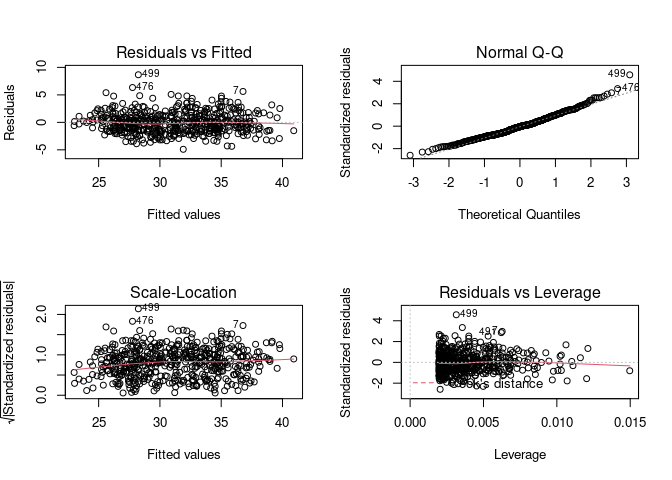
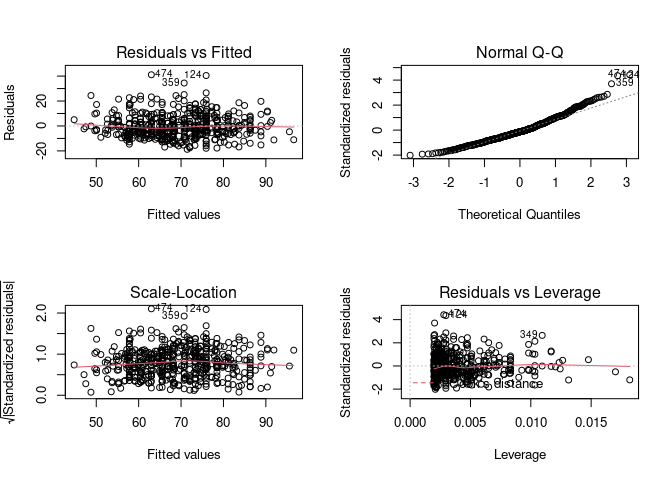
prepped assumptions

diff --git a/06 StatisticalTechniques/Assumptions.md b/06 StatisticalTechniques/Assumptions.md
@@ -1,23 +1,21 @@
 Assumptions
 ================
-Last Updated: 16, September, 2023 at 18:17
+Last Updated: 16, November, 2023 at 09:22
 
-- <a href="#read-some-data" id="toc-read-some-data">Read some data</a>
-- <a href="#assumption-1-linearity-of-model"
-  id="toc-assumption-1-linearity-of-model">Assumption 1: Linearity of
-  model</a>
-  - <a href="#example-1" id="toc-example-1">Example 1</a>
-  - <a href="#example-2" id="toc-example-2">Example 2</a>
-  - <a href="#example-3" id="toc-example-3">Example 3</a>
-  - <a href="#example-4" id="toc-example-4">Example 4</a>
-- <a href="#assumption-2-normal-distribution-of-the-errors"
-  id="toc-assumption-2-normal-distribution-of-the-errors">Assumption 2:
-  normal distribution of the errors</a>
-- <a href="#assumption-3-homoscedasticity"
-  id="toc-assumption-3-homoscedasticity">Assumption 3:
-  Homoscedasticity</a>
-- <a href="#more-examples" id="toc-more-examples">More examples</a>
-  - <a href="#gambling" id="toc-gambling">Gambling</a>
+- [Read some data](#read-some-data)
+- [Assumption 1: Linearity of model](#assumption-1-linearity-of-model)
+  - [Example 1](#example-1)
+  - [Example 2](#example-2)
+  - [Example 3](#example-3)
+  - [Example 4](#example-4)
+- [Assumption 2: Normal distribution of the
+  errors](#assumption-2-normal-distribution-of-the-errors)
+- [Assumption 3: Homoscedasticity](#assumption-3-homoscedasticity)
+- [More examples](#more-examples)
+  - [Heteroscedasticity: Gambling
+    data](#heteroscedasticity-gambling-data)
+  - [Non-linear relationship: Pima
+    data](#non-linear-relationship-pima-data)
 
 # Read some data
 
@@ -25,16 +23,14 @@ Last Updated: 16, September, 2023 at 18:17
 library(tidyverse)
 ```
 
-    ## ── Attaching core tidyverse packages ──────────────────────── tidyverse 2.0.0 ──
-    ## ✔ dplyr     1.1.0     ✔ readr     2.1.4
-    ## ✔ forcats   1.0.0     ✔ stringr   1.5.0
-    ## ✔ ggplot2   3.4.1     ✔ tibble    3.2.0
-    ## ✔ lubridate 1.9.2     ✔ tidyr     1.3.0
-    ## ✔ purrr     1.0.1     
+    ## ── Attaching packages ─────────────────────────────────────── tidyverse 1.3.2 ──
+    ## ✔ ggplot2 3.4.0      ✔ purrr   0.3.5 
+    ## ✔ tibble  3.1.8      ✔ dplyr   1.0.10
+    ## ✔ tidyr   1.2.1      ✔ stringr 1.4.1 
+    ## ✔ readr   2.1.3      ✔ forcats 0.5.2 
     ## ── Conflicts ────────────────────────────────────────── tidyverse_conflicts() ──
     ## ✖ dplyr::filter() masks stats::filter()
     ## ✖ dplyr::lag()    masks stats::lag()
-    ## ℹ Use the ]8;;http://conflicted.r-lib.org/conflicted package]8;; to force all conflicts to become errors
 
 ``` r
 body_data <-read_csv('data/body.csv')
@@ -75,20 +71,28 @@ model <- lm(Y ~ X1, data = vik_data)
 plot(fitted(model), resid(model))
 ```
 
-![](Assumptions_files/figure-gfm/unnamed-chunk-3-1.png)<!-- -->
+![](Assumptions_files/figure-gfm/unnamed-chunk-3-1.png)<!-- --> Let’s
+create the diagnostic plots. For our purposes, we will only look at the
+top two plots.
 
 ``` r
-par(mfrow = c(2, 2))  # Split the plotting panel into a 2 x 2 grid
+# Split the plotting panel into a 2 x 2 grid. Such that we get the four plots
+# in 4 separate panels.
+par(mfrow = c(2, 2))
 plot(model)
 ```
 
 ![](Assumptions_files/figure-gfm/unnamed-chunk-4-1.png)<!-- -->
 
+``` r
+# We can reset the plotting panel using this code: par(mfrow = c(1, 1))
+```
+
 ## Example 2
 
 ``` r
 x_data <- runif(100)
-y_data <- x_data^3
+y_data <- x_data^3 + rnorm(100, sd=0.05)
 fake <- tibble(x_data=x_data, y_data = y_data)
 model <- lm(y_data ~ x_data, data = fake)
 par(mfrow = c(1, 1)) 
@@ -100,17 +104,59 @@ abline(model, col='red')
 
 ``` r
 model <- lm(y_data ~ x_data, data = fake)
+summary(model)
+```
+
+    ## 
+    ## Call:
+    ## lm(formula = y_data ~ x_data, data = fake)
+    ## 
+    ## Residuals:
+    ##      Min       1Q   Median       3Q      Max 
+    ## -0.27150 -0.08737 -0.01992  0.08296  0.28573 
+    ## 
+    ## Coefficients:
+    ##             Estimate Std. Error t value Pr(>|t|)    
+    ## (Intercept) -0.17305    0.02210   -7.83 5.85e-12 ***
+    ## x_data       0.87200    0.04057   21.49  < 2e-16 ***
+    ## ---
+    ## Signif. codes:  0 '***' 0.001 '**' 0.01 '*' 0.05 '.' 0.1 ' ' 1
+    ## 
+    ## Residual standard error: 0.1205 on 98 degrees of freedom
+    ## Multiple R-squared:  0.825,  Adjusted R-squared:  0.8232 
+    ## F-statistic: 461.9 on 1 and 98 DF,  p-value: < 2.2e-16
+
+``` r
 par(mfrow = c(2, 2))  # Split the plotting panel into a 2 x 2 grid
 plot(model)
 ```
 
-![](Assumptions_files/figure-gfm/unnamed-chunk-6-1.png)<!-- -->
+![](Assumptions_files/figure-gfm/unnamed-chunk-7-1.png)<!-- -->
+
+``` r
+par(mfrow = c(1, 1)) 
+```
+
+Let’s run the model on transformed data and look at the diagnostic plots
+again.
+
+``` r
+model <- lm(y_data ~ I(x_data^3), data = fake)
+par(mfrow = c(2, 2))  # Split the plotting panel into a 2 x 2 grid
+plot(model)
+```
+
+![](Assumptions_files/figure-gfm/unnamed-chunk-8-1.png)<!-- -->
 
 ``` r
 par(mfrow = c(1, 1)) 
 ```
 
 ## Example 3
+
+This demonstrates that the diagnostic plots can also be used when we
+have multiple predictors (in this case plotting the dependent vs the
+independents might be difficult or impossible).
 
 ``` r
 x1_data <- runif(100)
@@ -122,7 +168,7 @@ par(mfrow = c(2, 2))  # Split the plotting panel into a 2 x 2 grid
 plot(model)
 ```
 
-![](Assumptions_files/figure-gfm/unnamed-chunk-7-1.png)<!-- -->
+![](Assumptions_files/figure-gfm/unnamed-chunk-9-1.png)<!-- -->
 
 ``` r
 par(mfrow = c(1, 1))
@@ -130,29 +176,10 @@ par(mfrow = c(1, 1))
 
 ## Example 4
 
+Finally, an example with real data.
+
 ``` r
 model <- lm(Weight ~ Height, data = body_data)
-par(mfrow = c(2, 2))  # Split the plotting panel into a 2 x 2 grid
-plot(model)
-```
-
-![](Assumptions_files/figure-gfm/unnamed-chunk-8-1.png)<!-- -->
-
-``` r
-par(mfrow = c(1, 1)) 
-```
-
-# Assumption 2: normal distribution of the errors
-
-``` r
-model <- lm(Bicep ~ Shoulder, data = body_data)
-residuals <- resid(model)
-hist(residuals, 50)
-```
-
-![](Assumptions_files/figure-gfm/unnamed-chunk-9-1.png)<!-- -->
-
-``` r
 par(mfrow = c(2, 2))  # Split the plotting panel into a 2 x 2 grid
 plot(model)
 ```
@@ -163,7 +190,31 @@ plot(model)
 par(mfrow = c(1, 1)) 
 ```
 
+# Assumption 2: Normal distribution of the errors
+
+``` r
+model <- lm(Bicep ~ Shoulder, data = body_data)
+residuals <- resid(model)
+hist(residuals, 50)
+```
+
+![](Assumptions_files/figure-gfm/unnamed-chunk-11-1.png)<!-- -->
+
+``` r
+par(mfrow = c(2, 2))  # Split the plotting panel into a 2 x 2 grid
+plot(model)
+```
+
+![](Assumptions_files/figure-gfm/unnamed-chunk-12-1.png)<!-- -->
+
+``` r
+par(mfrow = c(1, 1)) 
+```
+
 # Assumption 3: Homoscedasticity
+
+I created a data set with heteroscedasticity. The gambling data below
+might be a good example as well.
 
 ``` r
 n<-500
@@ -174,7 +225,7 @@ y<- (20 * x) + errors
 plot(x, y)
 ```
 
-![](Assumptions_files/figure-gfm/unnamed-chunk-11-1.png)<!-- -->
+![](Assumptions_files/figure-gfm/unnamed-chunk-13-1.png)<!-- -->
 
 ``` r
 fake<-tibble(x=x, y=y)
@@ -192,33 +243,33 @@ summary(model)
     ## lm(formula = y ~ x, data = fake)
     ## 
     ## Residuals:
-    ##      Min       1Q   Median       3Q      Max 
-    ## -12.1884  -1.0699   0.0775   1.3305  10.0144 
+    ##     Min      1Q  Median      3Q     Max 
+    ## -9.0569 -1.3754  0.0346  1.2388 11.7878 
     ## 
     ## Coefficients:
     ##             Estimate Std. Error t value Pr(>|t|)    
-    ## (Intercept)  0.03199    0.25310   0.126    0.899    
-    ## x           19.68554    0.44150  44.588   <2e-16 ***
+    ## (Intercept)  0.06833    0.25812   0.265    0.791    
+    ## x           19.79738    0.46121  42.925   <2e-16 ***
     ## ---
     ## Signif. codes:  0 '***' 0.001 '**' 0.01 '*' 0.05 '.' 0.1 ' ' 1
     ## 
-    ## Residual standard error: 2.806 on 498 degrees of freedom
-    ## Multiple R-squared:  0.7997, Adjusted R-squared:  0.7993 
-    ## F-statistic:  1988 on 1 and 498 DF,  p-value: < 2.2e-16
+    ## Residual standard error: 2.873 on 498 degrees of freedom
+    ## Multiple R-squared:  0.7872, Adjusted R-squared:  0.7868 
+    ## F-statistic:  1843 on 1 and 498 DF,  p-value: < 2.2e-16
 
 ``` r
 plot(x, y)
 abline(model, col='red')
 ```
 
-![](Assumptions_files/figure-gfm/unnamed-chunk-12-1.png)<!-- -->
+![](Assumptions_files/figure-gfm/unnamed-chunk-14-1.png)<!-- -->
 
 ``` r
 par(mfrow = c(2, 2))  # Split the plotting panel into a 2 x 2 grid
 plot(model)
 ```
 
-![](Assumptions_files/figure-gfm/unnamed-chunk-13-1.png)<!-- -->
+![](Assumptions_files/figure-gfm/unnamed-chunk-15-1.png)<!-- -->
 
 ``` r
 par(mfrow = c(1, 1)) 
@@ -226,7 +277,7 @@ par(mfrow = c(1, 1))
 
 # More examples
 
-## Gambling
+## Heteroscedasticity: Gambling data
 
 The teengamb data frame has 47 rows and 5 columns. A survey was
 conducted to study teenage gambling in Britain. This data frame contains
@@ -260,7 +311,7 @@ model<- lm(gamble~income, data=data)
 plot(data$income, data$gamble)
 ```
 
-![](Assumptions_files/figure-gfm/unnamed-chunk-15-1.png)<!-- -->
+![](Assumptions_files/figure-gfm/unnamed-chunk-17-1.png)<!-- -->
 
 ``` r
 summary(model)
@@ -290,7 +341,7 @@ par(mfrow = c(2, 2))  # Split the plotting panel into a 2 x 2 grid
 plot(model)
 ```
 
-![](Assumptions_files/figure-gfm/unnamed-chunk-17-1.png)<!-- -->
+![](Assumptions_files/figure-gfm/unnamed-chunk-19-1.png)<!-- -->
 
 ``` r
 par(mfrow = c(1, 1)) 
@@ -300,4 +351,35 @@ par(mfrow = c(1, 1))
 plot(data$status,data$gamble)
 ```
 
-![](Assumptions_files/figure-gfm/unnamed-chunk-18-1.png)<!-- -->
+![](Assumptions_files/figure-gfm/unnamed-chunk-20-1.png)<!-- -->
+
+## Non-linear relationship: Pima data
+
+The National Institute of Diabetes and Digestive and Kidney Diseases
+conducted a study on 768 adult female Pima Indians living near Phoenix.
+The dataset contains the following variables
+
+- Number of times pregnant
+- Plasma glucose concentration at 2 hours in an oral glucose tolerance
+  test
+- Diastolic blood pressure (mm Hg)
+- Triceps skin fold thickness (mm) insulin 2-Hour serum insulin (mu
+  U/ml)
+- Body mass index (weight in kg/(height in metres squared))
+- Diabetes pedigree function age Age (years)
+- Test whether the patient shows signs of diabetes (coded 0 if negative,
+  1 if positive)
+
+``` r
+data<-pima
+model <-lm(test ~ age + insulin, data=data)
+
+par(mfrow = c(2, 2))  # Split the plotting panel into a 2 x 2 grid
+plot(model)
+```
+
+![](Assumptions_files/figure-gfm/unnamed-chunk-21-1.png)<!-- -->
+
+``` r
+par(mfrow = c(1, 1)) 
+```
